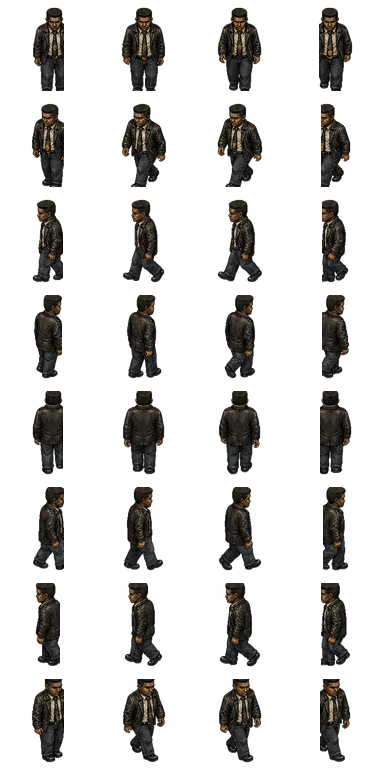
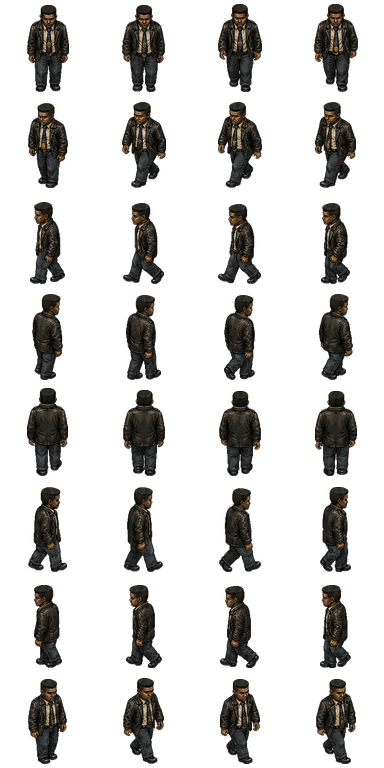
Fix sprites collision and car input

diff --git a/index.html b/index.html
@@ -3,7 +3,7 @@
 <head>
   <meta charset="utf-8" />
   <meta name="viewport" content="width=device-width, initial-scale=1, maximum-scale=1, user-scalable=no" />
-  <title>The Report — Raven Hook Full Aligned Asset Update</title>
+  <title>The Report — Sprite Direction + Roads + Car Input Fix</title>
   <style>
     html, body {
       margin: 0; padding: 0; width: 100%; height: 100%; overflow: hidden;
@@ -68,7 +68,7 @@
   // SINGLE_WORLD_NO_OVERLAP_PATCH_018: single full-world ground, no overlapping chunk layers.
   const VIEW_W = 960, VIEW_H = 540, WORLD_W = 4096, WORLD_H = 4096;
   const ASSET_BASE = window.location.hostname.endsWith('github.io') ? '/The-Report/' : './';
-  const ASSET_REV = 'aligned-assets-map-019';
+  const ASSET_REV = 'sprite-road-car-input-fix-020';
   const A = (p) => {
     const clean = String(p).replace(/^\/?/, '');
     if (/^(https?:)?\/\//.test(clean) || clean.startsWith('data:')) return clean;
@@ -11904,6 +11904,262 @@
       if (typeof oldUpdatePlayerSprite019==='function') GameScene.prototype.updatePlayerSprite=function(moving=false) { const result=oldUpdatePlayerSprite019.call(this,moving); if (this.playerSprite) { this.playerSprite.setOrigin?.(0.5,0.82); this.playerSprite.setScale?.(PLAYER_ASSET.scale||0.58); this.playerSprite.setFlipX?.(false); } return result; };
       const oldCreate019=GameScene.prototype.create;
       GameScene.prototype.create=function(...args) { setStrictAlignedCollision019(); const result=oldCreate019.apply(this,args); this.applyGroundMap?.(); this.createCollision?.(); if (this.player&&this.walls) this.physics.add.collider(this.player,this.walls); if (this.car&&this.walls) this.physics.add.collider(this.car,this.walls,()=>this.carHitWall?.()); this.time?.delayedCall?.(250,()=>{this.applyGroundMap?.();this.setupPlayerTopDownCarSprite?.();}); return result; };
+    }
+  })();
+
+
+
+  // SPRITE_ROAD_CAR_INPUT_FIX_020
+  // Fixes 4x8 walk-sheet slicing, Malcolm right walk, Ramos direction rows, open parking lots, and tap-latched gas.
+  (function installSpriteRoadCarInputFix020() {
+    const STRICT_BUILDING_WATER_RECTS_020 = [{"id":"fix020_a_police_hq_main","x":130,"y":145,"w":780,"h":560,"type":"building"},{"id":"fix020_a_station_front_steps_core","x":360,"y":690,"w":290,"h":95,"type":"building"},{"id":"fix020_a_top_parking_office","x":1120,"y":170,"w":520,"h":315,"type":"building"},{"id":"fix020_a_west_small_service","x":970,"y":1085,"w":260,"h":300,"type":"building"},{"id":"fix020_a_east_support_building","x":1305,"y":1040,"w":450,"h":470,"type":"building"},{"id":"fix020_a_south_low_building","x":150,"y":1585,"w":710,"h":260,"type":"building"},{"id":"fix020_b_kens_shop","x":2220,"y":125,"w":310,"h":270,"type":"building"},{"id":"fix020_b_chens_lucky_row","x":2585,"y":135,"w":410,"h":340,"type":"building"},{"id":"fix020_b_east_market_front","x":2210,"y":545,"w":650,"h":250,"type":"building"},{"id":"fix020_b_red_gull_diner","x":3225,"y":185,"w":575,"h":450,"type":"building"},{"id":"fix020_b_raven_pawn_row","x":2220,"y":1185,"w":710,"h":430,"type":"building"},{"id":"fix020_b_russo_auto","x":3185,"y":1165,"w":650,"h":505,"type":"building"},{"id":"fix020_c_records_annex","x":115,"y":2260,"w":470,"h":590,"type":"building"},{"id":"fix020_c_courthouse_main","x":690,"y":2195,"w":700,"h":600,"type":"building"},{"id":"fix020_c_courthouse_steps","x":820,"y":2790,"w":430,"h":145,"type":"building"},{"id":"fix020_c_city_hall","x":1560,"y":2240,"w":380,"h":610,"type":"building"},{"id":"fix020_c_civic_tow_building","x":120,"y":3260,"w":525,"h":365,"type":"building"},{"id":"fix020_c_bail_bonds","x":880,"y":3415,"w":300,"h":420,"type":"building"},{"id":"fix020_c_march_legal","x":1325,"y":3260,"w":330,"h":410,"type":"building"},{"id":"fix020_c_law_public_defender","x":1660,"y":3265,"w":295,"h":535,"type":"building"},{"id":"fix020_d_neon_nights","x":2210,"y":2205,"w":330,"h":345,"type":"building"},{"id":"fix020_d_blue_lantern","x":2630,"y":2205,"w":350,"h":345,"type":"building"},{"id":"fix020_d_bell_cartage","x":3095,"y":2185,"w":715,"h":380,"type":"building"},{"id":"fix020_d_rusty_nail","x":2145,"y":2675,"w":345,"h":435,"type":"building"},{"id":"fix020_d_cheap_rooms","x":2640,"y":2675,"w":385,"h":410,"type":"building"},{"id":"fix020_d_dock_warehouse","x":3100,"y":2670,"w":705,"h":410,"type":"building"},{"id":"fix020_d_pawn_shop","x":2130,"y":3175,"w":335,"h":380,"type":"building"},{"id":"fix020_d_dock_yard_small","x":2625,"y":3175,"w":360,"h":380,"type":"building"},{"id":"fix020_d_red_gull_liquors","x":2130,"y":3630,"w":365,"h":350,"type":"building"},{"id":"fix020_d_back_alley","x":2635,"y":3630,"w":360,"h":350,"type":"building"},{"id":"fix020_d_right_harbor_water","x":3965,"y":2070,"w":131,"h":1930,"type":"water"},{"id":"fix020_d_bottom_harbor_water","x":2055,"y":4005,"w":2041,"h":91,"type":"water"}];
+
+    function applyStrictCollision020() {
+      if (Array.isArray(COLLISION_RECTS)) {
+        COLLISION_RECTS.splice(0, COLLISION_RECTS.length, ...STRICT_BUILDING_WATER_RECTS_020);
+      }
+    }
+
+    function isDrivingOpenZone020(x, y) {
+      // All streets/parking lots/sidewalks are intended open. Only strict rects above block movement.
+      if (x < 0 || y < 0 || x > 4096 || y > 4096) return false;
+      // East/south harbor water should remain blocked.
+      if (x > 3960 && y > 2050) return false;
+      if (y > 4000 && x > 2050) return false;
+      return true;
+    }
+
+    function removeAnim020(scene, key) {
+      try { if (scene?.anims?.exists?.(key)) scene.anims.remove(key); } catch (e) {}
+    }
+
+    function makeWalkAnim020(scene, keyPrefix, assetKey, rowName, rowIndex, cols, frameRate) {
+      const animKey = `${keyPrefix}_${rowName}`;
+      removeAnim020(scene, animKey);
+      scene.anims.create({
+        key: animKey,
+        frames: scene.anims.generateFrameNumbers(assetKey, { start: rowIndex * cols, end: rowIndex * cols + cols - 1 }),
+        frameRate: frameRate || 8,
+        repeat: -1
+      });
+    }
+
+    const DIR_ROW_8DIR_020 = { S:0, SW:1, W:2, NW:3, N:4, NE:3, E:2, SE:1 };
+    const DIR_NAME_8DIR_020 = { S:'south', SW:'southwest', W:'west', NW:'northwest', N:'north', NE:'northwest', E:'west', SE:'southwest' };
+    const DIR_FLIP_RIGHT_020 = { NE:true, E:true, SE:true };
+
+    applyStrictCollision020();
+
+    if (typeof PLAYER_ASSET !== 'undefined') {
+      PLAYER_ASSET.cols = 4;
+      PLAYER_ASSET.frameWidth = 96;
+      PLAYER_ASSET.frameHeight = 96;
+      PLAYER_ASSET.originY = 0.86;
+      PLAYER_ASSET.scale = 0.54;
+    }
+    if (typeof RAMOS_WALK_ASSET !== 'undefined') {
+      RAMOS_WALK_ASSET.cols = 4;
+      RAMOS_WALK_ASSET.frameWidth = 96;
+      RAMOS_WALK_ASSET.frameHeight = 96;
+      RAMOS_WALK_ASSET.originY = 0.86;
+      RAMOS_WALK_ASSET.scale = (typeof RAMOS_TALK_ASSET !== 'undefined' ? RAMOS_TALK_ASSET.scale : 0.44);
+      RAMOS_WALK_ASSET.stationScale = (typeof RAMOS_TALK_ASSET !== 'undefined' ? (RAMOS_TALK_ASSET.stationScale || 0.80) : 0.80);
+    }
+
+    if (typeof PLAYER_CAR_HANDLING !== 'undefined') {
+      PLAYER_CAR_HANDLING.accel = Math.max(PLAYER_CAR_HANDLING.accel || 0, 760);
+      PLAYER_CAR_HANDLING.brake = Math.max(PLAYER_CAR_HANDLING.brake || 0, 820);
+      PLAYER_CAR_HANDLING.maxSpeed = Math.max(PLAYER_CAR_HANDLING.maxSpeed || 0, 335);
+      PLAYER_CAR_HANDLING.minTurnSpeed = 1.5;
+      PLAYER_CAR_HANDLING.turnRate = Math.max(PLAYER_CAR_HANDLING.turnRate || 0, 4.9);
+    }
+
+    if (typeof MOBILE_INPUT_STATE !== 'undefined') {
+      MOBILE_INPUT_STATE.driveGasLatchUntil = 0;
+    }
+
+    if (typeof GameScene !== 'undefined') {
+      GameScene.prototype.createCollision = function() {
+        applyStrictCollision020();
+        if (this.walls?.clear) this.walls.clear(true, true);
+        this.walls = this.physics.add.staticGroup();
+        for (const r of COLLISION_RECTS) {
+          const rect = this.add.rectangle(r.x + r.w/2, r.y + r.h/2, r.w, r.h, r.type === 'water' ? 0x003355 : 0xff0000, 0);
+          this.physics.add.existing(rect, true);
+          this.walls.add(rect);
+        }
+      };
+
+      GameScene.prototype.createPlayerAnims = function() {
+        if (!this.textures.exists(PLAYER_ASSET.key)) return;
+        const cols = 4;
+        const rows = [['south',0],['southwest',1],['west',2],['northwest',3],['north',4]];
+        for (const [name,row] of rows) makeWalkAnim020(this, 'detective_walk', PLAYER_ASSET.key, name, row, cols, 8);
+      };
+
+      GameScene.prototype.frameForFacing = function() {
+        const row = DIR_ROW_8DIR_020[this.playerFacing || 'S'] ?? 0;
+        return row * 4;
+      };
+
+      GameScene.prototype.animForFacing = function() {
+        const name = DIR_NAME_8DIR_020[this.playerFacing || 'S'] || 'south';
+        return `detective_walk_${name}`;
+      };
+
+      const oldEnsurePlayer020 = GameScene.prototype.ensurePlayerSprite;
+      GameScene.prototype.ensurePlayerSprite = function(...args) {
+        const result = oldEnsurePlayer020?.apply(this, args);
+        if (this.playerSprite) {
+          this.playerSprite.setOrigin?.(0.5, 0.86);
+          this.playerSprite.setScale?.(PLAYER_ASSET.scale || 0.54);
+          this.playerSprite.setFlipX?.(!!DIR_FLIP_RIGHT_020[this.playerFacing || 'S']);
+        }
+        return result;
+      };
+
+      const oldUpdatePlayer020 = GameScene.prototype.updatePlayerSprite;
+      GameScene.prototype.updatePlayerSprite = function(moving = false) {
+        if (!this.playerSprite || !this.player) return oldUpdatePlayer020?.call(this, moving);
+        const result = oldUpdatePlayer020?.call(this, moving);
+        this.playerSprite.setOrigin?.(0.5, 0.86);
+        this.playerSprite.setScale?.(PLAYER_ASSET.scale || 0.54);
+        this.playerSprite.setFlipX?.(!!DIR_FLIP_RIGHT_020[this.playerFacing || 'S']);
+        if (!moving && this.playerSprite.texture?.key === PLAYER_ASSET.key) this.playerSprite.setFrame(this.frameForFacing());
+        return result;
+      };
+
+      GameScene.prototype.ramosFrame = function(asset, facing) {
+        if (asset?.key === RAMOS_WALK_ASSET.key) {
+          const row = DIR_ROW_8DIR_020[facing || 'S'] ?? 0;
+          return row * 4;
+        }
+        const rows = { S:0, SW:2, W:2, NW:2, N:1, NE:3, E:3, SE:3 };
+        return (rows[facing || 'S'] ?? 0) * (asset.cols || 4);
+      };
+
+      GameScene.prototype.ramosAnimKey = function(mode, facing) {
+        if (mode === 'walk') {
+          const name = DIR_NAME_8DIR_020[facing || 'S'] || 'south';
+          return `ramos_walk_${name}`;
+        }
+        const name = ({ S:'south', SW:'west', W:'west', NW:'west', N:'north', NE:'east', E:'east', SE:'east' })[facing || 'S'] || 'south';
+        return `ramos_${mode}_${name}`;
+      };
+
+      GameScene.prototype.createRamosAnims = function() {
+        if (this.textures.exists(RAMOS_WALK_ASSET.key)) {
+          const cols = 4;
+          for (const [name,row] of [['south',0],['southwest',1],['west',2],['northwest',3],['north',4]]) {
+            makeWalkAnim020(this, 'ramos_walk', RAMOS_WALK_ASSET.key, name, row, cols, 9);
+          }
+        }
+        const make4 = (mode, asset, frameRate, repeat) => {
+          if (!asset || !this.textures.exists(asset.key)) return;
+          const rows = [['south',0], ['north',1], ['west',2], ['east',3]];
+          for (const [name,row] of rows) {
+            const key = `ramos_${mode}_${name}`;
+            removeAnim020(this, key);
+            this.anims.create({
+              key,
+              frames: this.anims.generateFrameNumbers(asset.key, { start: row * asset.cols, end: row * asset.cols + asset.cols - 1 }),
+              frameRate,
+              repeat
+            });
+          }
+        };
+        make4('talk', typeof RAMOS_TALK_ASSET !== 'undefined' ? RAMOS_TALK_ASSET : null, 7, 0);
+        make4('shoot', typeof RAMOS_SHOOT_ASSET !== 'undefined' ? RAMOS_SHOOT_ASSET : null, 10, 0);
+      };
+
+      const oldUpdateRamos020 = GameScene.prototype.updateRamosCompanion;
+      GameScene.prototype.updateRamosCompanion = function(time, delta) {
+        const result = oldUpdateRamos020?.call(this, time, delta);
+        if (this.ramosSprite && this.ramosSprite.texture?.key === RAMOS_WALK_ASSET.key) {
+          this.ramosSprite.setOrigin?.(0.5, RAMOS_WALK_ASSET.originY || 0.86);
+          this.ramosSprite.setScale?.(RAMOS_WALK_ASSET.scale || 0.44);
+          this.ramosSprite.setFlipX?.(!!DIR_FLIP_RIGHT_020[this.ramosFacing || 'S']);
+          if (!this.ramosSprite.anims?.isPlaying) this.ramosSprite.setFrame?.(this.ramosFrame(RAMOS_WALK_ASSET, this.ramosFacing || 'S'));
+        }
+        return result;
+      };
+
+      const oldEnsureRamos020 = GameScene.prototype.ensureRamosCompanion;
+      GameScene.prototype.ensureRamosCompanion = function(...args) {
+        const result = oldEnsureRamos020?.apply(this, args);
+        if (this.ramosSprite && this.ramosSprite.texture?.key === RAMOS_WALK_ASSET.key) {
+          this.ramosSprite.setOrigin?.(0.5, RAMOS_WALK_ASSET.originY || 0.86);
+          this.ramosSprite.setScale?.(RAMOS_WALK_ASSET.scale || 0.44);
+          this.ramosSprite.setFlipX?.(!!DIR_FLIP_RIGHT_020[this.ramosFacing || 'S']);
+        }
+        return result;
+      };
+
+      const oldReadInput020 = GameScene.prototype.readPlayerCarInput;
+      GameScene.prototype.readPlayerCarInput = function() {
+        const m = this.mobile || MOBILE_INPUT_STATE || {};
+        const now = (typeof performance !== 'undefined' ? performance.now() : Date.now());
+        let input = oldReadInput020 ? oldReadInput020.call(this) : { throttle:0, steering:0, handbrake:false };
+
+        const latchedGas = Number(m.driveGasLatchUntil || 0) > now;
+        if (m.driveGas || latchedGas || this.keyHotfixGas?.isDown || this.keyHotfixUp?.isDown || this.keyHotfixW?.isDown) input.throttle = 1;
+        if (m.driveBrake || this.keyHotfixReverse?.isDown || this.keyHotfixDown?.isDown || this.keyHotfixS?.isDown) input.throttle = -1;
+
+        const steerX = Number.isFinite(m.driveSteerX) ? m.driveSteerX : (Number.isFinite(m.carSteerX) ? m.carSteerX : 0);
+        if (Math.abs(steerX) > 0.003) {
+          const raw = Phaser.Math.Clamp(steerX * 2.35, -1, 1);
+          input.steering = Phaser.Math.Clamp(Math.sign(raw) * Math.pow(Math.abs(raw), 0.36), -1, 1);
+        }
+        return input;
+      };
+
+      const oldCarHitWall020 = GameScene.prototype.carHitWall;
+      GameScene.prototype.carHitWall = function() {
+        if (this.car && isDrivingOpenZone020(this.car.x, this.car.y)) {
+          // In open roads/lots, ignore stale collision rollback and keep velocity.
+          const vx = this.car.velocityX ?? this.car.vx ?? 0;
+          const vy = this.car.velocityY ?? this.car.vy ?? 0;
+          this.car.body?.setVelocity?.(vx, vy);
+          return;
+        }
+        return oldCarHitWall020?.apply(this, arguments);
+      };
+
+      const oldCreate020 = GameScene.prototype.create;
+      GameScene.prototype.create = function(...args) {
+        applyStrictCollision020();
+        const result = oldCreate020.apply(this, args);
+        this.createCollision?.();
+        if (this.player && this.walls) this.physics.add.collider(this.player, this.walls);
+        if (this.car && this.walls) this.physics.add.collider(this.car, this.walls, () => this.carHitWall?.());
+        this.time?.delayedCall?.(180, () => {
+          this.createCollision?.();
+          if (this.player && this.walls) this.physics.add.collider(this.player, this.walls);
+          if (this.car && this.walls) this.physics.add.collider(this.car, this.walls, () => this.carHitWall?.());
+        });
+        return result;
+      };
+    }
+
+    if (typeof MobileControlsScene !== 'undefined') {
+      const oldRelease020 = MobileControlsScene.prototype.releasePointer;
+      MobileControlsScene.prototype.releasePointer = function(pointer) {
+        const keys = this.activePointerControls?.get?.(pointer.id);
+        if (keys && keys.includes('driveGas') && typeof MOBILE_INPUT_STATE !== 'undefined') {
+          const now = (typeof performance !== 'undefined' ? performance.now() : Date.now());
+          MOBILE_INPUT_STATE.driveGasLatchUntil = now + 900;
+        }
+        return oldRelease020?.call(this, pointer);
+      };
+
+      const oldSetControl020 = MobileControlsScene.prototype.setControl;
+      MobileControlsScene.prototype.setControl = function(key, value) {
+        if (key === 'driveGas' && value && typeof MOBILE_INPUT_STATE !== 'undefined') {
+          const now = (typeof performance !== 'undefined' ? performance.now() : Date.now());
+          MOBILE_INPUT_STATE.driveGasLatchUntil = now + 900;
+        }
+        return oldSetControl020?.call(this, key, value);
+      };
     }
   })();
 

diff --git a/README_SPRITE_ROAD_CAR_INPUT_FIX.md b/README_SPRITE_ROAD_CAR_INPUT_FIX.md
@@ -1,0 +1,20 @@
+# The Report — Sprite / Road Collision / Car Input Fix 020
+
+Fixes:
+- Malcolm movement sheet is loaded as a true 4x8, 96x96 sheet.
+- Malcolm east/right movement mirrors the west/left row so he no longer appears to walk backward.
+- Malcolm side frames are scaled/origin-adjusted so the sides do not clip.
+- Ramos walk sheet uses 8-direction rows instead of the old 4-direction/talk mapping.
+- Ramos city walk scale is matched to her talk scale.
+- Collision is rebuilt as strict building/water rectangles only; parking lots, roads, sidewalks, and driveways are open.
+- X gas gets a short tap-latch and stronger acceleration.
+- Driving stick steering curve is more sensitive.
+
+Install:
+unzip -o the_report_sprite_road_car_input_fix.zip
+git add index.html assets/characters/main_detective assets/characters/npcs/partners/ramos docs/previews/sprites README_SPRITE_ROAD_CAR_INPUT_FIX.md
+git commit -m "Fix sprites collision and car input"
+git push
+
+Test:
+https://adonisdross.github.io/The-Report/?v=sprite-road-car-input-fix-020
